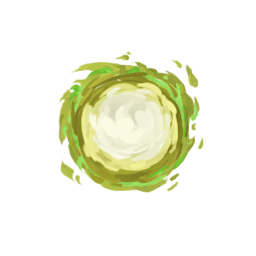
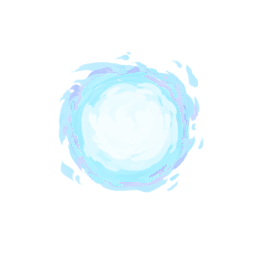
feat:能量球

Changed region(s): [[0.2188, 0.1875, 0.8125, 0.75]]

diff --git a/src/main/java/FrierenMod/utils/ModInformation.java b/src/main/java/FrierenMod/utils/ModInformation.java
@@ -1,7 +1,5 @@
 package FrierenMod.utils;
 
-import java.util.Locale;
-
 public class ModInformation {
     public final static String MOD_NAME = "FrierenMod";
     public final static String KEY_WORD = MOD_NAME.toLowerCase();
@@ -34,15 +32,11 @@ public class ModInformation {
     }
     public static String[] makeOrbTexturePath(String character){
         return new String[]{
-                getOrbPath() + character + "/" + "layer5.png",
                 getOrbPath() + character + "/" + "layer4.png",
-                getOrbPath() + character + "/" + "layer3.png",
                 getOrbPath() + character + "/" + "layer2.png",
                 getOrbPath() + character + "/" + "layer1.png",
                 getOrbPath() + character + "/" + "layer6.png",
-                getOrbPath() + character + "/" + "layer5d.png",
                 getOrbPath() + character + "/" + "layer4d.png",
-                getOrbPath() + character + "/" + "layer3d.png",
                 getOrbPath() + character + "/" + "layer2d.png",
                 getOrbPath() + character + "/" + "layer1d.png"
         };
